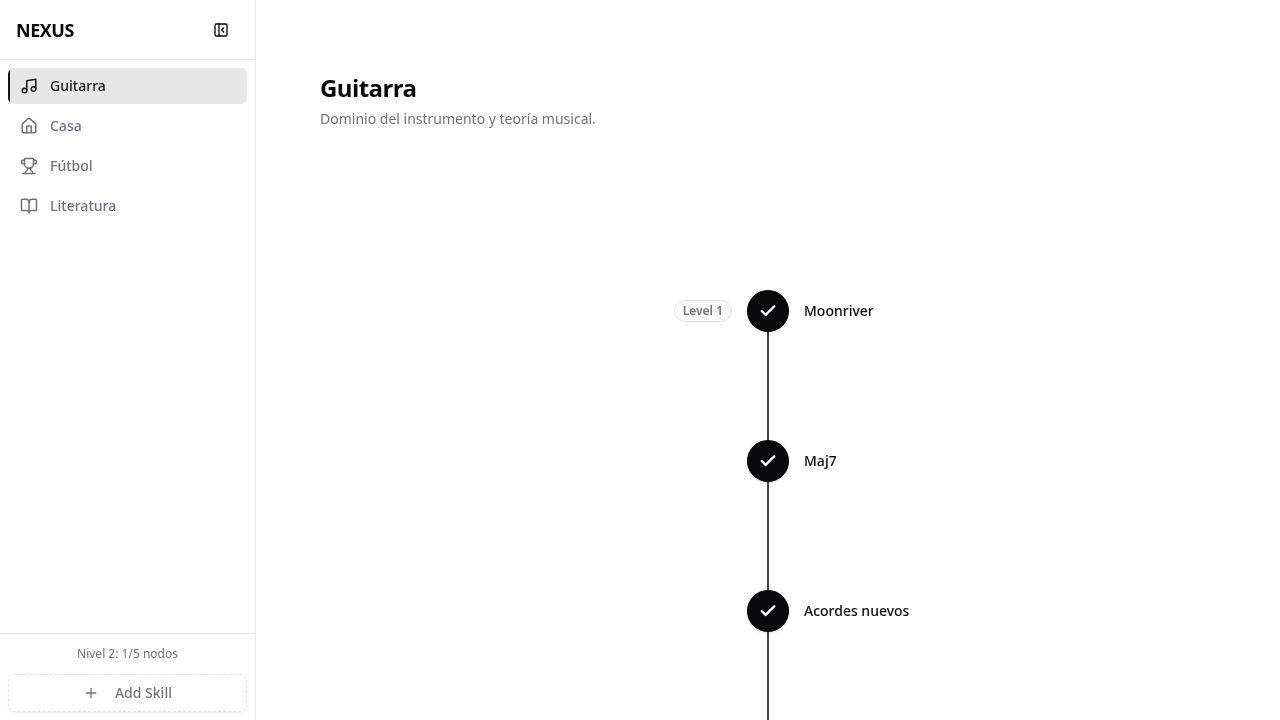
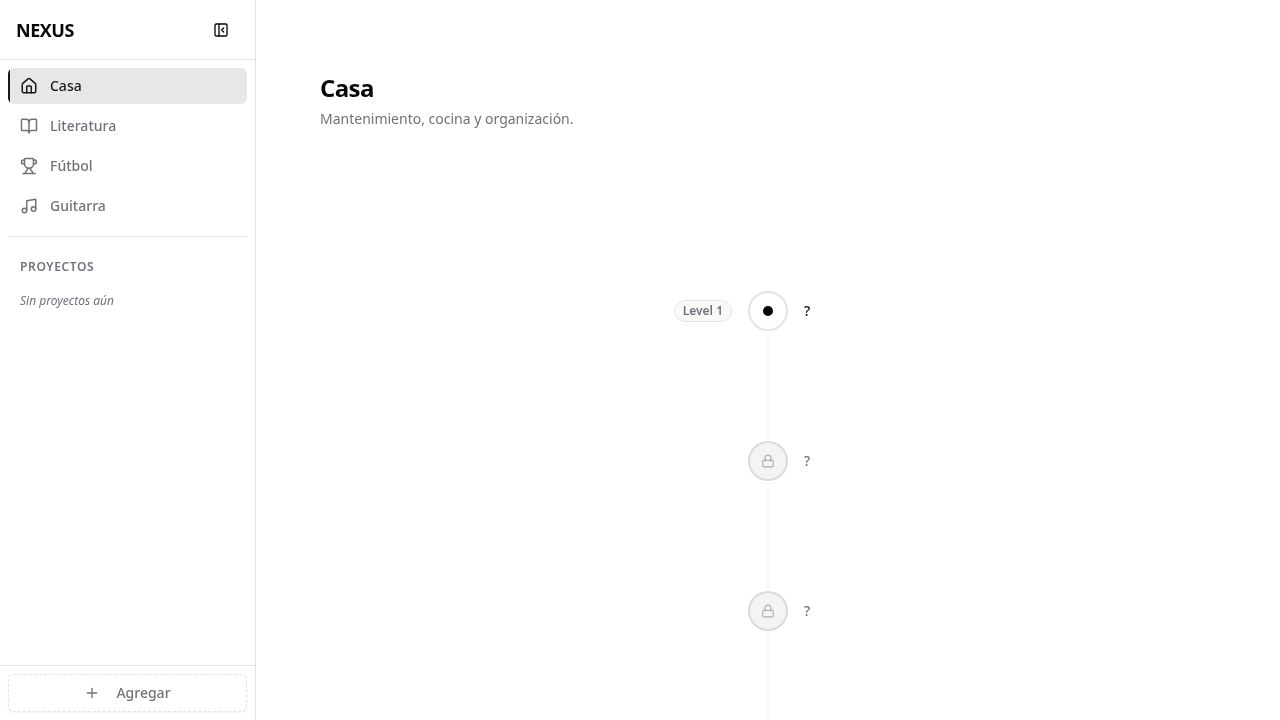
Change the button for adding skills to adding areas or projects
Update AreaMenu.tsx to replace the "Add Skill" button and its associated form with a new "Agregar" button and dialog for adding new Areas or Projects.

Replit-Commit-Author: Agent
Replit-Commit-Session-Id: f9ffa58a-5700-4f0b-8435-3b2fa830cdf1
Replit-Commit-Checkpoint-Type: full_checkpoint
Replit-Commit-Event-Id: 140f052c-5722-4f72-90f5-437debba8a6d
Replit-Commit-Screenshot-Url: https://storage.googleapis.com/screenshot-production-us-central1/96775514-c2a0-4fe9-b097-1f2c5aaa07d0/f9ffa58a-5700-4f0b-8435-3b2fa830cdf1/eMmozQo
Replit-Helium-Checkpoint-Created: true

diff --git a/client/src/components/AreaMenu.tsx b/client/src/components/AreaMenu.tsx
@@ -4,62 +4,12 @@ import { motion, AnimatePresence } from "framer-motion";
 import { Plus, PanelLeftClose, PanelLeftOpen } from "lucide-react";
 import { Button } from "./ui/button";
 import { Dialog, DialogContent, DialogHeader, DialogTitle, DialogTrigger } from "./ui/dialog";
-import { Input } from "./ui/input";
-import { Label } from "./ui/label";
-import { Textarea } from "./ui/textarea";
-import { useForm } from "react-hook-form";
 import { useState } from "react";
 
 export function AreaMenu() {
-  const { areas, activeAreaId, setActiveAreaId, addSkill, activeArea } = useSkillTree();
+  const { areas, activeAreaId, setActiveAreaId } = useSkillTree();
   const [isAddOpen, setIsAddOpen] = useState(false);
   const [isOpen, setIsOpen] = useState(true);
-  
-  const { register, handleSubmit, reset } = useForm({
-    defaultValues: {
-      title: "",
-      description: ""
-    }
-  });
-
-  const currentLevel = activeArea?.nextLevelToAssign || 1;
-  const skillsInCurrentLevel = activeArea?.skills.filter(s => s.level === currentLevel) || [];
-  const currentLevelNodeCount = skillsInCurrentLevel.length;
-  const isLevelFull = currentLevelNodeCount >= 5;
-
-  const onSubmit = (data: any) => {
-    if (!activeArea) return;
-    
-    const levelToAssign = activeArea.nextLevelToAssign;
-    const skillsInLevel = activeArea.skills.filter(s => s.level === levelToAssign);
-    
-    let lastSkill = null;
-    let newY = 100;
-
-    if (skillsInLevel.length > 0) {
-      lastSkill = skillsInLevel.reduce((max, s) => s.y > max.y ? s : max, skillsInLevel[0]);
-      newY = lastSkill.y + 150;
-    } else if (activeArea.skills.length > 0) {
-      const lastSkillOverall = activeArea.skills.reduce((max, s) => s.y > max.y ? s : max, activeArea.skills[0]);
-      newY = lastSkillOverall.y + 150;
-      lastSkill = lastSkillOverall;
-    }
-
-    // Server enforces: position 1 = available, positions 2-5 = locked
-    addSkill(activeAreaId, {
-      areaId: activeAreaId,
-      title: data.title,
-      description: data.description,
-      x: 50,
-      y: newY,
-      status: "available",
-      dependencies: lastSkill ? [lastSkill.id] : [],
-      level: levelToAssign
-    });
-    
-    reset();
-    setIsAddOpen(false);
-  };
 
   return (
     <motion.div 
@@ -147,53 +97,48 @@ export function AreaMenu() {
       </div>
 
       <div className="p-2 border-t border-border space-y-2">
-        {isOpen && activeArea && (
-          <div className="text-xs text-muted-foreground px-2 py-1 text-center">
-            Nivel {currentLevel}: {currentLevelNodeCount}/5 nodos
-          </div>
-        )}
         <Dialog open={isAddOpen} onOpenChange={setIsAddOpen}>
           <DialogTrigger asChild>
             <Button 
               variant="outline" 
               size={isOpen ? "default" : "icon"}
-              disabled={isLevelFull}
               className={cn(
                 "w-full border-dashed border-border bg-transparent text-muted-foreground hover:text-foreground",
-                !isOpen && "aspect-square p-0",
-                isLevelFull && "opacity-50 cursor-not-allowed"
+                !isOpen && "aspect-square p-0"
               )}
             >
               <Plus className={cn("h-4 w-4", isOpen && "mr-2")} /> 
-              {isOpen && (isLevelFull ? "Nivel completo" : "Add Skill")}
+              {isOpen && "Agregar"}
             </Button>
           </DialogTrigger>
           <DialogContent className="sm:max-w-[425px]">
             <DialogHeader>
-              <DialogTitle>New Skill Node</DialogTitle>
+              <DialogTitle>Agregar Nuevo</DialogTitle>
             </DialogHeader>
-            <form onSubmit={handleSubmit(onSubmit)} className="space-y-4 mt-4">
-              <div className="text-sm text-muted-foreground">
-                Nivel {currentLevel} - Posicion {currentLevelNodeCount + 1}/5
-                {currentLevelNodeCount === 4 && (
-                  <span className="ml-2 text-yellow-500">(Nodo Final)</span>
-                )}
-                {currentLevelNodeCount > 0 && currentLevelNodeCount < 4 && (
-                  <span className="ml-2 text-muted-foreground/60">(Iniciara bloqueado)</span>
-                )}
+            <div className="space-y-4 mt-4">
+              <div className="grid grid-cols-2 gap-3">
+                <Button 
+                  variant="outline" 
+                  className="h-24 flex flex-col gap-2"
+                  onClick={() => {
+                    setIsAddOpen(false);
+                  }}
+                >
+                  <Plus className="h-6 w-6" />
+                  <span>Nueva Área</span>
+                </Button>
+                <Button 
+                  variant="outline" 
+                  className="h-24 flex flex-col gap-2"
+                  onClick={() => {
+                    setIsAddOpen(false);
+                  }}
+                >
+                  <Plus className="h-6 w-6" />
+                  <span>Nuevo Proyecto</span>
+                </Button>
               </div>
-              <div className="space-y-2">
-                <Label htmlFor="title">Skill Name</Label>
-                <Input id="title" {...register("title", { required: true })} placeholder="e.g. Advanced Picking" />
-              </div>
-              <div className="space-y-2">
-                <Label htmlFor="description">Description</Label>
-                <Textarea id="description" {...register("description")} placeholder="Short description of goal" />
-              </div>
-              <Button type="submit" className="w-full">
-                Initialize Node
-              </Button>
-            </form>
+            </div>
           </DialogContent>
         </Dialog>
       </div>
